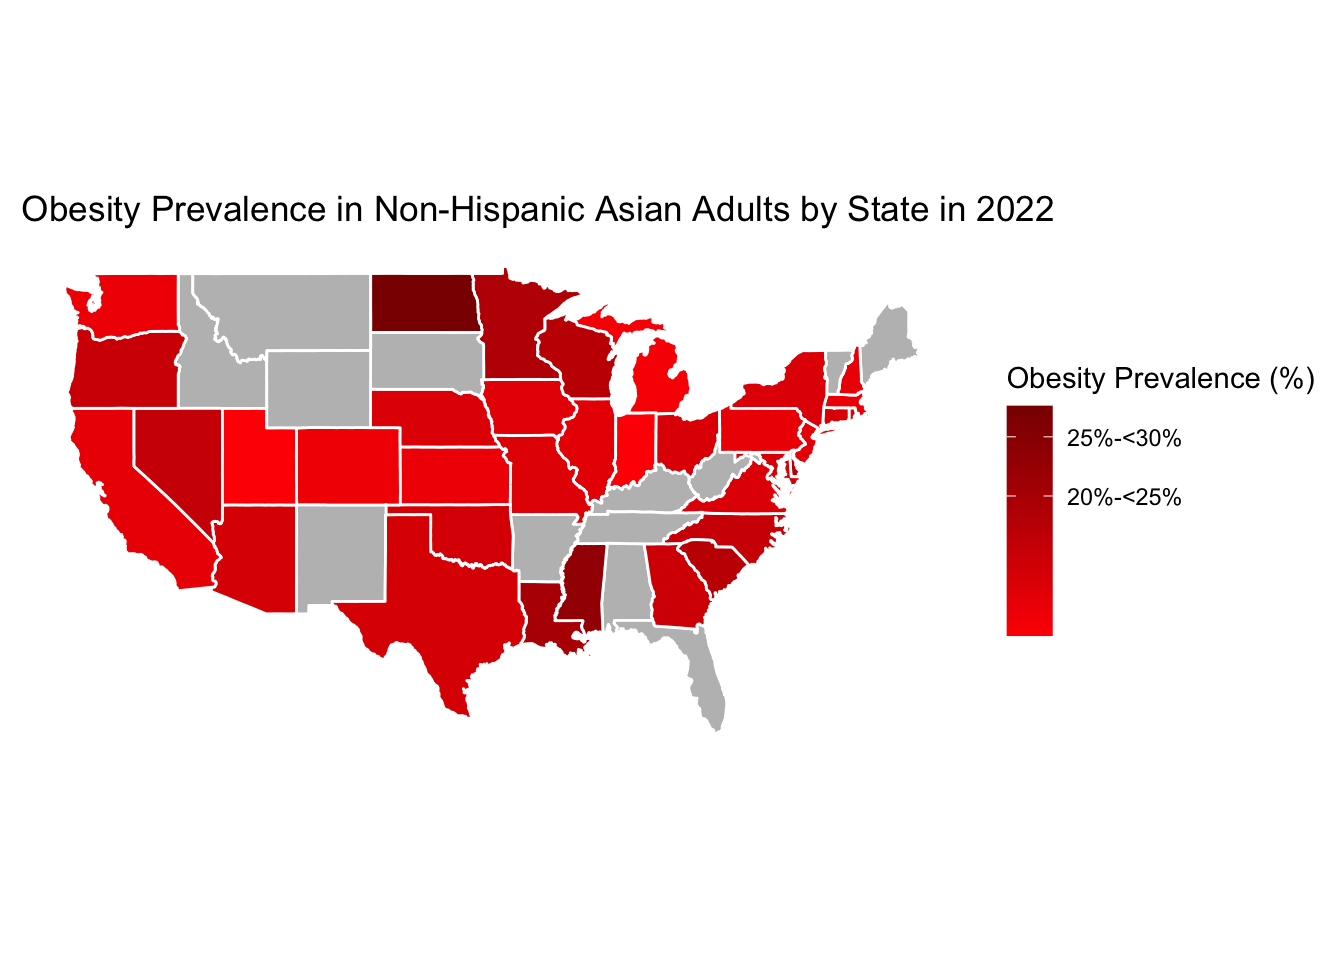
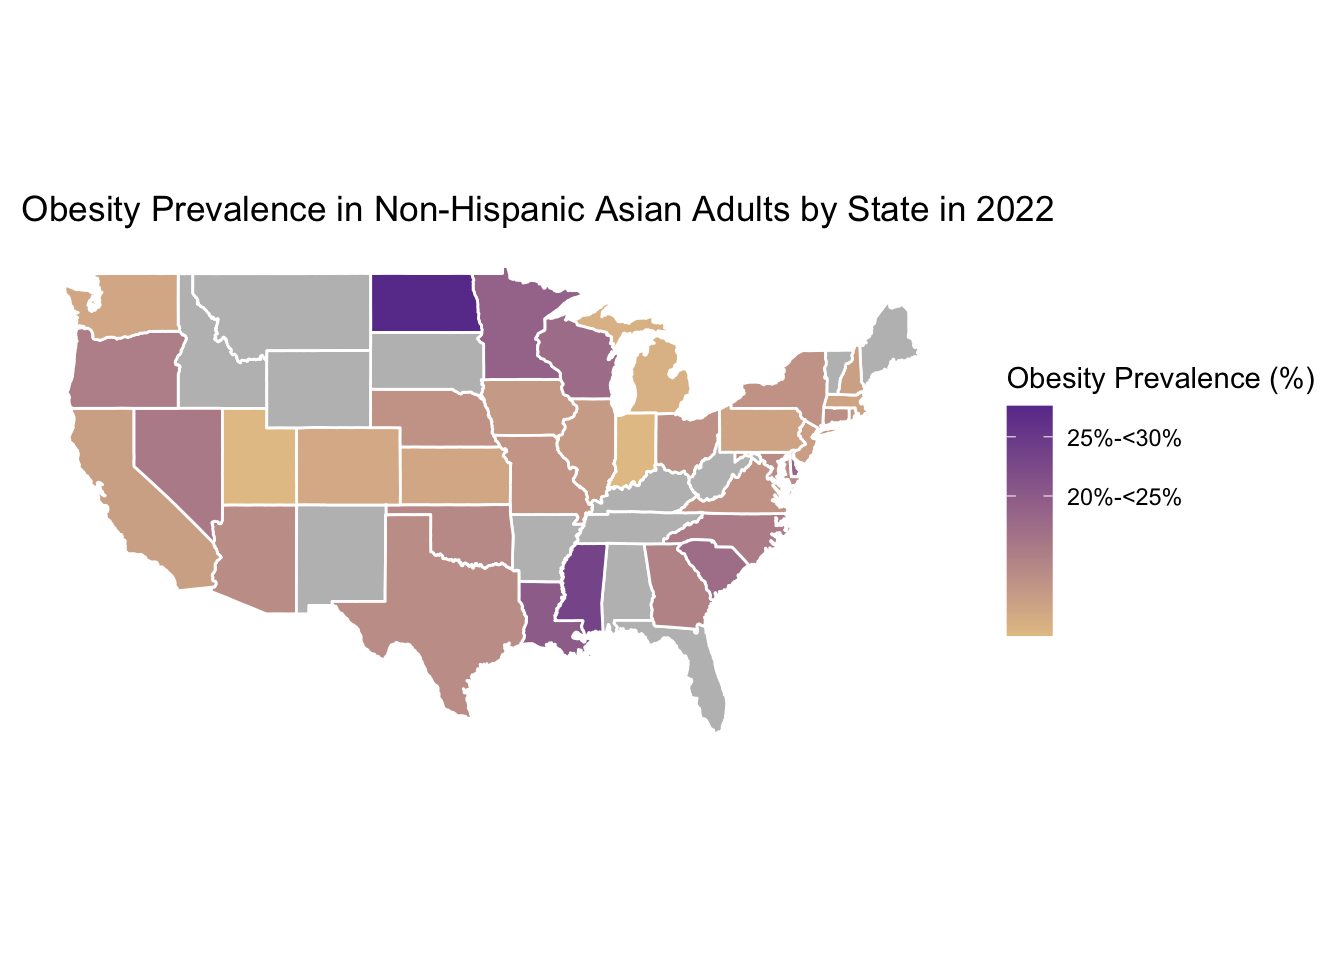
change the map color

Changed region(s): [[0.0312, 0.2812, 0.6562, 0.75], [0.75, 0.4062, 0.7812, 0.6875]]

diff --git a/BRFSS-Analysis.html b/BRFSS-Analysis.html
@@ -328,7 +328,12 @@ $(document).ready(function () {
 <h1>Maps</h1>
 <div id="overall-obesity" class="section level2">
 <h2>Overall Obesity</h2>
-<pre class="r"><code>overall = overall |&gt;
+<pre class="r"><code>display.brewer.all()</code></pre>
+<p><img src="BRFSS-Analysis_files/figure-html/unnamed-chunk-2-1.png" width="672" /></p>
+<pre class="r"><code>color1 = brewer.pal(10, &quot;Paired&quot;)  
+color2 = brewer.pal(8, &quot;Set2&quot;) 
+
+overall = overall |&gt;
   mutate(State = tolower(State))
 
 overall_map = left_join(states_map, overall, by = c(&quot;region&quot; = &quot;State&quot;))
@@ -342,7 +347,7 @@ ggplot(data = overall_map) +
     breaks = breaks, 
     labels = c(&quot;&lt;20%&quot;, &quot;20%-&lt;25%&quot;, &quot;25%-&lt;30%&quot;, &quot;30%-&lt;35%&quot;, 
                &quot;35%-&lt;40%&quot;, &quot;40%-&lt;45%&quot;, &quot;45%-&lt;50%&quot;, &quot;50%+&quot;),
-    low = &quot;red&quot;, high = &quot;darkred&quot;, na.value = &quot;grey&quot;
+    low = color2[7], high = color1[10], na.value = &quot;grey&quot;
   ) +
   coord_fixed(1.3) +
   theme_minimal() +
@@ -355,7 +360,7 @@ ggplot(data = overall_map) +
         axis.ticks = element_blank(),
         axis.title.x = element_blank(),
         axis.title.y = element_blank())</code></pre>
-<p><img src="BRFSS-Analysis_files/figure-html/unnamed-chunk-2-1.png" width="672" /></p>
+<p><img src="BRFSS-Analysis_files/figure-html/unnamed-chunk-2-2.png" width="672" /></p>
 </div>
 <div id="maps-obesity-by-raceethnicity---non-hispanic-asian-adults"
 class="section level2">
@@ -377,7 +382,7 @@ ggplot(data = asian_map) +
     breaks = breaks, 
     labels = c(&quot;&lt;20%&quot;, &quot;20%-&lt;25%&quot;, &quot;25%-&lt;30%&quot;, &quot;30%-&lt;35%&quot;, 
                &quot;35%-&lt;40%&quot;, &quot;40%-&lt;45%&quot;, &quot;45%-&lt;50%&quot;, &quot;50%+&quot;),
-    low = &quot;red&quot;, high = &quot;darkred&quot;, na.value = &quot;grey&quot;
+    low = color2[7], high = color1[10], na.value = &quot;grey&quot;
   ) +
   coord_fixed(1.3) +
   theme_minimal() +
@@ -412,7 +417,7 @@ ggplot(data = black_map) +
     breaks = breaks, 
     labels = c(&quot;&lt;20%&quot;, &quot;20%-&lt;25%&quot;, &quot;25%-&lt;30%&quot;, &quot;30%-&lt;35%&quot;, 
                &quot;35%-&lt;40%&quot;, &quot;40%-&lt;45%&quot;, &quot;45%-&lt;50%&quot;, &quot;50%+&quot;),
-    low = &quot;red&quot;, high = &quot;darkred&quot;, na.value = &quot;grey&quot;
+     low = color2[7], high = color1[10], na.value = &quot;grey&quot;
   ) +
   coord_fixed(1.3) +
   theme_minimal() +
@@ -447,7 +452,7 @@ ggplot(data = white_map) +
     breaks = breaks, 
     labels = c(&quot;&lt;20%&quot;, &quot;20%-&lt;25%&quot;, &quot;25%-&lt;30%&quot;, &quot;30%-&lt;35%&quot;, 
                &quot;35%-&lt;40%&quot;, &quot;40%-&lt;45%&quot;, &quot;45%-&lt;50%&quot;, &quot;50%+&quot;),
-    low = &quot;red&quot;, high = &quot;darkred&quot;, na.value = &quot;grey&quot;
+     low = color2[7], high = color1[10], na.value = &quot;grey&quot;
   ) +
   coord_fixed(1.3) +
   theme_minimal() +
@@ -482,7 +487,7 @@ ggplot(data = hispanic_map) +
     breaks = breaks, 
     labels = c(&quot;&lt;20%&quot;, &quot;20%-&lt;25%&quot;, &quot;25%-&lt;30%&quot;, &quot;30%-&lt;35%&quot;, 
                &quot;35%-&lt;40%&quot;, &quot;40%-&lt;45%&quot;, &quot;45%-&lt;50%&quot;, &quot;50%+&quot;),
-    low = &quot;red&quot;, high = &quot;darkred&quot;, na.value = &quot;grey&quot;
+     low = color2[7], high = color1[10], na.value = &quot;grey&quot;
   ) +
   coord_fixed(1.3) +
   theme_minimal() +
